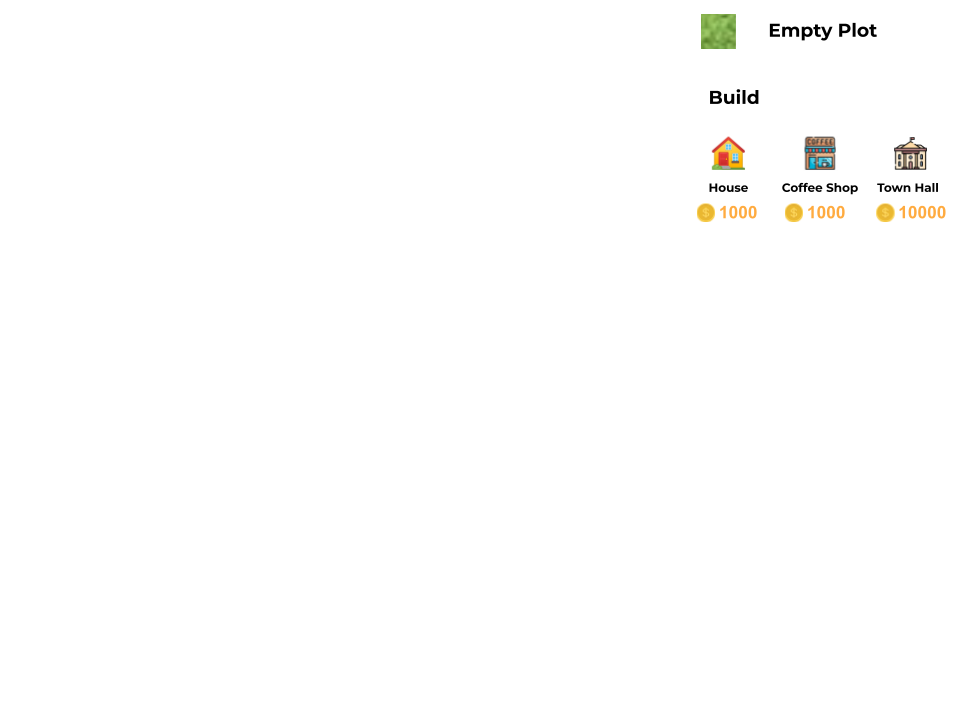
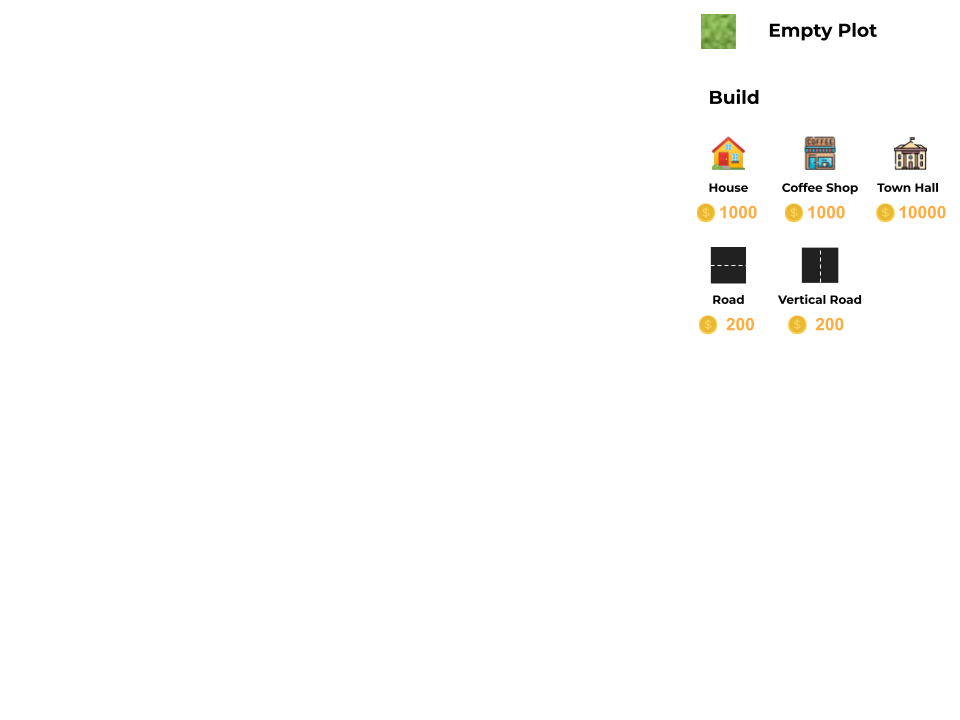
true

Changed region(s): [[0.8125, 0.3361, 0.9062, 0.4583], [0.7188, 0.3361, 0.7812, 0.4583]]

diff --git a/src/Final_Project.java b/src/Final_Project.java
@@ -27,6 +27,7 @@ public class Final_Project extends JPanel implements KeyListener, Runnable, Mous
     public static BufferedImage sidePanel;
     public static BufferedImage selection;
     public static BufferedImage horizontalRoad;
+    public static BufferedImage verticalRoad;
     public static BufferedImage emptyPlot;
     public static BufferedImage townHall;
     public static BufferedImage tornado;
@@ -265,6 +266,9 @@ public class Final_Project extends JPanel implements KeyListener, Runnable, Mous
 	        			if(buildingType[i][ii] == 3) {//Horizontal Road
 	        				g.drawImage(horizontalRoad, mainscreenX+960+(i*40), mainscreenY+(ii*40), null);
 	        			}
+	        			if(buildingType[i][ii] == 4) {//Vertical Road
+	        				g.drawImage(verticalRoad, mainscreenX+960+(i*40), mainscreenY+(ii*40), null);
+	        			}
 	        			if(buildingType[i][ii] == 7) {//Coffee Shop
 	        				g.drawImage(coffeeShop, mainscreenX+960+(i*40), mainscreenY+(ii*40), null);
 	        			}
@@ -437,6 +441,7 @@ public class Final_Project extends JPanel implements KeyListener, Runnable, Mous
         sidePanel = ImageIO.read(new File("sidePanel.png"));
         selection = ImageIO.read(new File("selection.png"));
         horizontalRoad = ImageIO.read(new File("roadHorizontal.png"));
+        verticalRoad = ImageIO.read(new File("roadVertical.png"));
         emptyPlot = ImageIO.read(new File("emptyPlot.png"));
         lockedArea = ImageIO.read(new File("lockedArea.png"));
         townHall = ImageIO.read(new File("townhall.png"));
@@ -617,6 +622,31 @@ public class Final_Project extends JPanel implements KeyListener, Runnable, Mous
 	    						}
 	    					}
 	    					countGDP();
+	    					
+	    					//IF THEY CLICK TO BUY A HORIZONTAL ROAD
+	    					if(e.getX() >= 709 && e.getX() <=756 && e.getY() >= 235 && e.getY() <= 322 && e.getButton()==1) {
+	    						if(money >= 200) {
+		    						buildingType[lastxPressed][lastyPressed] = 3;
+		    						sidePanelOpen = false;
+		    						money -= 200;
+	    						}
+	    						else {
+	    							System.out.println("no money");
+	    						}
+	    					}
+	    					
+	    					//IF THEY CLICK TO BUY A VERTICAL ROAD
+	    					if(e.getX() >= 780 && e.getX() <=852 && e.getY() >= 235 && e.getY() <= 322 && e.getButton()==1) {
+	    						if(money >= 200) {
+		    						buildingType[lastxPressed][lastyPressed] = 4;
+		    						sidePanelOpen = false;
+		    						money -= 200;
+	    						}
+	    						else {
+	    							System.out.println("no money");
+	    						}
+	    					}
+	    					countGDP();
 	    				}
 	    				else if(buildingType[lastxPressed][lastyPressed] == 1) {
 	    					//IF THEY CLICK TO UNLOCK
@@ -703,7 +733,7 @@ public class Final_Project extends JPanel implements KeyListener, Runnable, Mous
 	
 	public static void naturalDisaster() {
 		buildingType[tornadox][tornadoy] = 9;
-		if(Math.random()>0.001 && Math.random()>0.9 && !tornadoActive && gameState == 3) {
+		if(Math.random()>0.001 && Math.random()>0.99 && !tornadoActive && gameState == 3) {
 			tornadoActive = true;
 			tornado();
 		}
